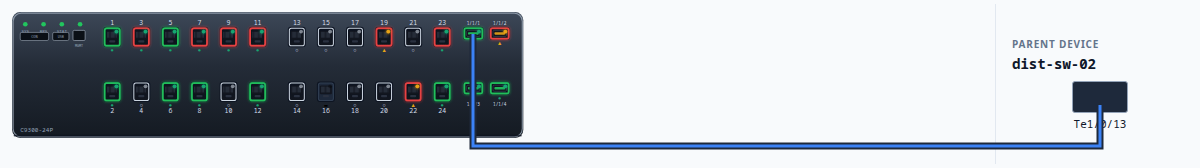
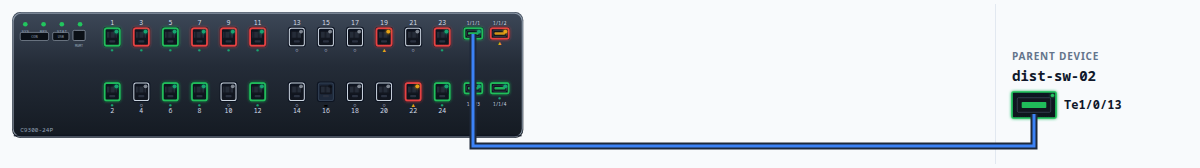
Draw the parent port as a chassis jack.
The Parent Device box uses the same RJ45 or SFP cutout as the switch, glowing green when the link is up. The cable enters the bottom of that jack and the interface name sits beside it.

Changed region(s): [[0.8325, 0.2381, 0.9558, 0.8929]]

diff --git a/ui/src/app/device-detail/components/DeviceDetailView.tsx b/ui/src/app/device-detail/components/DeviceDetailView.tsx
@@ -9,6 +9,7 @@ import ExampleDataBanner from '@/components/ui/ExampleDataBanner';
 import { HealthBadge, StatusBadge } from '@/components/ui/Badge';
 import { Skeleton } from '@/components/ui/Skeleton';
 import Faceplate from '@/components/faceplate/Faceplate';
+import ParentPortPicture from '@/components/faceplate/ParentPort';
 import { FACEPLATE_HEIGHT } from '@/components/faceplate/size';
 import { namesMatch } from '@/components/faceplate/library/ifname';
 import { portNameLine } from '@/components/faceplate/portText';
@@ -475,7 +476,7 @@ export default function DeviceDetailView() {
                       {parentLink.hostname}
                     </Link>
                     <div ref={parentPortRef} data-relation-id={parentLink.id} className="mt-2">
-                      <ParentPortPicture name={parentLink.parentInterface} />
+                      <ParentPortPicture name={parentLink.parentInterface} up={!parentLink.parentDown} />
                     </div>
                   </>
                 ) : (
@@ -987,7 +988,10 @@ function outsideCable(port: DOMRect, chassis: DOMRect, remotePort: DOMRect | nul
   const hug = 6;
   const laneY = Math.min(grey.height - hug, chassis.bottom - grey.top + hug);
   const endX = remotePort ? localX(remotePort) : remoteBox.left - grey.left + remoteBox.width / 2;
-  const rawEndY = remotePort ? localY(remotePort) : remoteBox.top - grey.top + remoteBox.height / 2;
+  // A short marker sits on the bottom edge of the jack. Stop inside that edge so the line enters the port and misses the label beside it.
+  const rawEndY = remotePort
+    ? (remotePort.height <= 12 ? remotePort.top - grey.top + 2 : remotePort.bottom - grey.top - 4)
+    : remoteBox.top - grey.top + remoteBox.height / 2;
   const endY = Math.max(hug, Math.min(grey.height - hug, rawEndY));
   return cablePath([
     { x, y },
@@ -1056,23 +1060,6 @@ function UplinkCable({
       <path d={path} fill="none" stroke="#1e293b" strokeWidth={7} strokeLinejoin="miter" strokeLinecap="butt" />
       <path d={path} fill="none" stroke="#3b82f6" strokeWidth={3} strokeLinejoin="miter" strokeLinecap="butt" />
     </svg>
-  );
-}
-
-function ParentPortPicture({ name }: { name: string }) {
-  const fiber = /te|hu|fo|twe|sfp|uplink/i.test(name);
-  return (
-    <div data-port-name={name} data-testid="parent-port" className="flex w-full flex-col items-center gap-1">
-      <div
-        className={fiber
-          ? 'h-8 w-14 rounded-[3px] border border-slate-400 bg-slate-800 shadow-sm'
-          : 'h-10 w-8 rounded-[3px] border-2 border-slate-400 bg-slate-900 shadow-sm'}
-        aria-hidden="true"
-      >
-        <div className={fiber ? 'mx-auto mt-1.5 h-3 w-8 rounded-sm bg-slate-500' : 'mx-auto mt-1 h-4 w-5 rounded-sm bg-slate-600'} />
-      </div>
-      <span className="max-w-full text-center font-mono-data text-[11px] leading-tight text-foreground" title={name}>{name}</span>
-    </div>
   );
 }
 

diff --git a/ui/src/components/faceplate/ParentPort.tsx b/ui/src/components/faceplate/ParentPort.tsx
@@ -1,0 +1,50 @@
+'use client';
+
+import React from 'react';
+
+// The same jack the chassis draws: copper pins or an SFP cage, green rim and glow when the link is up.
+export default function ParentPortPicture({ name, up = true }: { name: string; up?: boolean }) {
+  const fiber = /te|hu|fo|twe|sfp|uplink/i.test(name);
+  const w = fiber ? 44 : 28;
+  const h = fiber ? 26 : 34;
+  const rim = up ? '#22c55e' : '#64748b';
+  return (
+    <div data-testid="parent-port" style={{ display: 'flex', alignItems: 'center', gap: 8 }}>
+      <div style={{ position: 'relative', width: w, height: h, flexShrink: 0 }}>
+        <svg width={w} height={h} viewBox={`0 0 ${w} ${h}`} aria-hidden="true" style={{ display: 'block', overflow: 'visible' }}>
+          <defs>
+            <linearGradient id="parent-port-bay" x1="0" y1="0" x2="0" y2="1">
+              <stop offset="0" stopColor="#0b1220" />
+              <stop offset="1" stopColor="#12161f" />
+            </linearGradient>
+            <filter id="parent-port-glow" x="-80%" y="-80%" width="260%" height="260%">
+              <feGaussianBlur stdDeviation="1.8" result="b" />
+              <feMerge>
+                <feMergeNode in="b" />
+                <feMergeNode in="SourceGraphic" />
+              </feMerge>
+            </filter>
+          </defs>
+          <rect x={0} y={0} width={w} height={h} rx={fiber ? 1.4 : 2} fill="url(#parent-port-bay)" stroke={rim} strokeWidth={up ? 1.7 : 1} filter={up ? 'url(#parent-port-glow)' : undefined} />
+          {fiber ? (
+            <>
+              <rect x={w * 0.12} y={h * 0.22} width={w * 0.76} height={h * 0.56} rx={1.2} fill="#12161f" stroke="#4a5468" strokeWidth={0.6} />
+              <rect x={w * 0.22} y={h * 0.38} width={w * 0.56} height={h * 0.24} rx={0.8} fill={up ? '#22c55e' : '#334155'} opacity={up ? 0.95 : 0.4} />
+            </>
+          ) : (
+            <>
+              <rect x={w * 0.12} y={h * 0.16} width={w * 0.76} height={h * 0.46} rx={1} fill="#12161f" />
+              {Array.from({ length: 8 }, (_, index) => (
+                <rect key={`pin-${index + 1}`} x={w * 0.18 + index * (w * 0.08)} y={h * 0.22} width={w * 0.03} height={h * 0.32} fill="#4a5468" />
+              ))}
+              <rect x={w * 0.3} y={h * 0.68} width={w * 0.4} height={h * 0.12} rx={0.8} fill="#2a3140" />
+            </>
+          )}
+          <circle cx={w - 3.5} cy={3.4} r={1.7} fill={up ? '#22c55e' : '#8a97ab'} filter={up ? 'url(#parent-port-glow)' : undefined} />
+        </svg>
+        <span data-port-name={name} style={{ position: 'absolute', left: 0, right: 0, bottom: 0, height: 6 }} />
+      </div>
+      <span style={{ font: '600 12px/1.2 ui-monospace, monospace', color: '#0f172a', whiteSpace: 'nowrap' }} title={name}>{name}</span>
+    </div>
+  );
+}

diff --git a/ui/src/components/faceplate/Faceplate.shots.test.tsx b/ui/src/components/faceplate/Faceplate.shots.test.tsx
@@ -7,6 +7,7 @@ import { describe, expect, it } from 'vitest';
 import type { FaceplateDevice, StackMember } from '@/lib/types';
 import { buildFaceplateFor } from '@/lib/mockData';
 import Faceplate from './Faceplate';
+import ParentPortPicture from './ParentPort';
 
 function renumber(device: FaceplateDevice, member: number): StackMember['ports'] {
   return (device.ports || []).map((port) => ({
@@ -49,9 +50,8 @@ function frame(device: FaceplateDevice, parent: string | null) {
         {parent ? (
           <>
             <div style={{ marginTop: 6, font: '600 14px/1.2 ui-monospace, monospace', color: '#0f172a' }}>{parent}</div>
-            <div data-port-name="Te1/0/13" style={{ marginTop: 8, display: 'flex', flexDirection: 'column', alignItems: 'center' }}>
-              <div style={{ width: 56, height: 32, border: '1px solid #94a3b8', borderRadius: 3, background: '#1e293b', boxSizing: 'border-box' }} />
-              <div style={{ marginTop: 4, font: '500 11px/1.2 ui-monospace, monospace', color: '#0f172a' }}>Te1/0/13</div>
+            <div style={{ marginTop: 8 }}>
+              <ParentPortPicture name="Te1/0/13" up />
             </div>
           </>
         ) : (
@@ -84,7 +84,7 @@ const CABLE_SCRIPT = `<script>
   var y = port.top - grey.top + port.height / 2;
   var lane = Math.min(grey.height - 8, chassisBottom - grey.top + 8);
   var endX = far.left - grey.left + far.width / 2;
-  var endY = far.top - grey.top + far.height / 2;
+  var endY = far.height <= 12 ? far.top - grey.top + 2 : far.bottom - grey.top - 4;
   var svg = document.createElementNS('http://www.w3.org/2000/svg', 'svg');
   svg.setAttribute('viewBox', '0 0 ' + grey.width + ' ' + grey.height);
   svg.setAttribute('style', 'position:absolute;left:0;top:0;width:100%;height:100%;pointer-events:none');

diff --git a/ui/src/app/device-detail/components/DeviceDetailView.test.tsx b/ui/src/app/device-detail/components/DeviceDetailView.test.tsx
@@ -297,6 +297,9 @@ describe('DeviceDetailView client navigation', () => {
     expect(await screen.findByText('Parent Device')).toBeInTheDocument();
     expect(screen.getByText('dist-sw-02')).toBeInTheDocument();
     expect(screen.getByText('Te1/0/13')).toBeInTheDocument();
+    const jack = document.querySelector('[data-port-name="Te1/0/13"]');
+    expect(jack?.closest('[data-testid="parent-port"]')?.querySelector('rect[stroke="#22c55e"]')).toBeTruthy();
+    expect(jack?.parentElement?.nextElementSibling?.textContent).toBe('Te1/0/13');
     expect(screen.queryByText('edge-child')).toBeNull();
     expect(screen.queryByText('Child')).toBeNull();
   });
